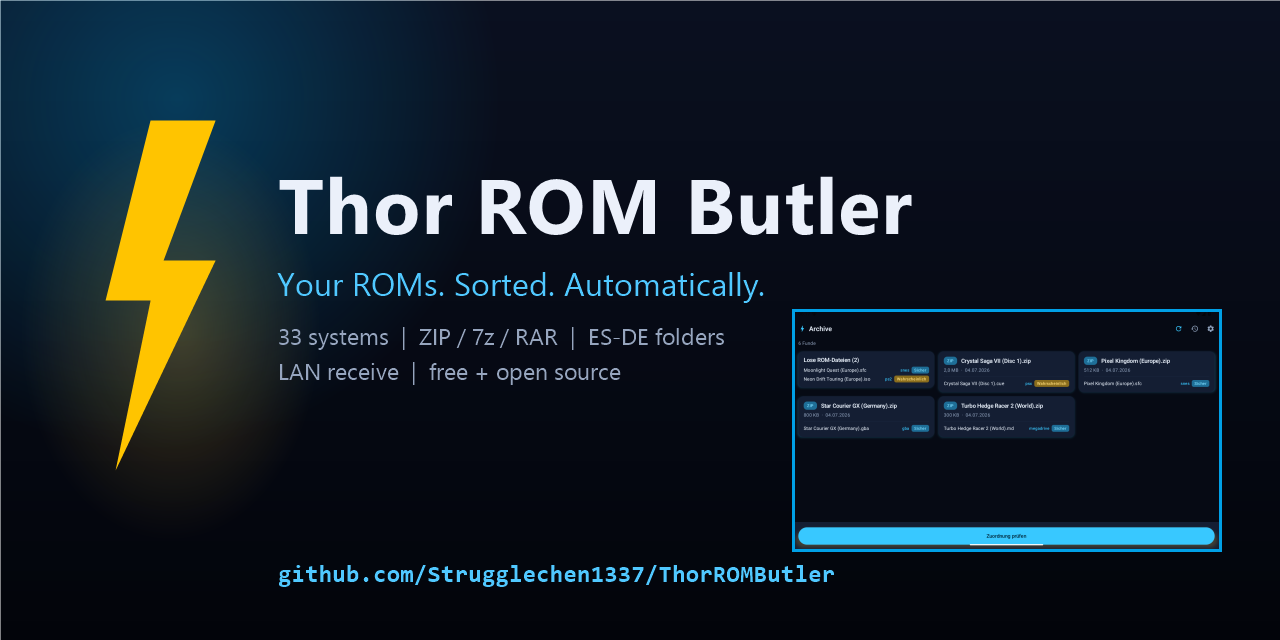
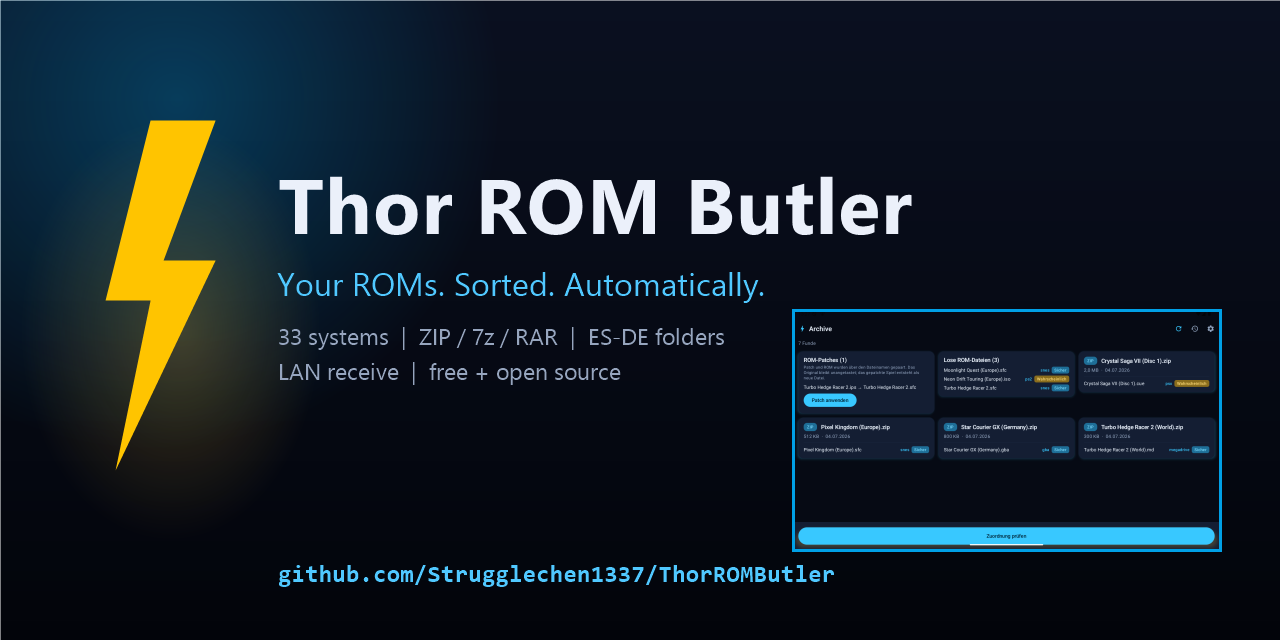
Screenshots auf v1.4.0-Stand + LAN-QR-Ansicht in der Galerie
- Neue Emulator-Screenshots (fiktive Spielnamen): Scan mit
  ROM-Patch-Karte, Zuordnung, LAN-Empfang-Sitzung mit QR-Code,
  Einstellungen mit Playlist-Schalter.
- Neue Dateinamen (01-04-Prefix) als Cache-Buster fuer GitHubs
  Bild-CDN; alte scan/assign/settings.png entfernt, setup.png bleibt.
- README-Galerie auf vier Spalten inkl. LAN-Empfang erweitert,
  HOWTO-Referenzen (DE+EN) aktualisiert.
- Social-Preview mit aktuellem Scan-Screenshot regeneriert.

Changed region(s): [[0.625, 0.5625, 0.9688, 0.7188], [0.9062, 0.5938, 0.9375, 0.625]]

diff --git a/docs/HOWTO.md b/docs/HOWTO.md
@@ -59,7 +59,7 @@ Die App durchsucht den Ordner und analysiert jeden Fund — bei Archiven
 **ohne sie zu entpacken**. Auf jeder Karte siehst du, welche ROMs erkannt
 wurden.
 
-<img src="screenshots/scan.png" alt="Scan" width="600">
+<img src="screenshots/01-scan.png" alt="Scan" width="600">
 
 ### Schritt 4: Zuordnung prüfen
 
@@ -76,7 +76,7 @@ Duplikate werden erkannt und übersprungen, außer du wählst „Ersetzen". Beim
 Ersetzen bleibt die vorhandene Datei gesichert, bis die neue vollständig
 geschrieben und geprüft wurde.
 
-<img src="screenshots/assign.png" alt="Zuordnung" width="600">
+<img src="screenshots/02-assign.png" alt="Zuordnung" width="600">
 
 ### Schritt 5: Einsortieren
 
@@ -132,7 +132,7 @@ anders überlegst.
 - **Updates**: Einstellungen → „Auf Updates prüfen", oder via
   [Obtainium](https://github.com/ImranR98/Obtainium).
 
-<img src="screenshots/settings.png" alt="Einstellungen" width="600">
+<img src="screenshots/04-settings.png" alt="Einstellungen" width="600">
 
 ---
 
@@ -190,7 +190,7 @@ send files from other apps via
 The app scans the folder and analyzes every find — archives are inspected
 **without extracting them**. Each card shows which ROMs were detected.
 
-<img src="screenshots/scan.png" alt="Scan" width="600">
+<img src="screenshots/01-scan.png" alt="Scan" width="600">
 
 ### Step 4: Review
 
@@ -206,7 +206,7 @@ Every ROM gets an honest confidence rating:
 detected and skipped unless you opt into replacing them. During replacement,
 the existing file stays backed up until the new copy is complete and verified.
 
-<img src="screenshots/assign.png" alt="Review" width="600">
+<img src="screenshots/02-assign.png" alt="Review" width="600">
 
 ### Step 5: Sort
 
@@ -260,4 +260,4 @@ your mind.
 - **Updates**: Settings → "Check for updates", or via
   [Obtainium](https://github.com/ImranR98/Obtainium).
 
-<img src="screenshots/settings.png" alt="Settings" width="600">
+<img src="screenshots/04-settings.png" alt="Settings" width="600">

diff --git a/README.md b/README.md
@@ -9,9 +9,9 @@
 
 ## Screenshots
 
-| Archive / Archive | Zuordnung / Review | Einstellungen / Settings |
-|-------------------|--------------------|--------------------------|
-| <img src="docs/screenshots/scan.png" alt="Thor ROM Butler archive scan screen" width="300"> | <img src="docs/screenshots/assign.png" alt="Thor ROM Butler review screen" width="300"> | <img src="docs/screenshots/settings.png" alt="Thor ROM Butler settings screen" width="300"> |
+| Archive & Patches / Archives & patches | Zuordnung / Review | LAN-Empfang / LAN receive | Einstellungen / Settings |
+|----------------------------------------|--------------------|---------------------------|--------------------------|
+| <img src="docs/screenshots/01-scan.png" alt="Thor ROM Butler scan screen with ROM patch card" width="240"> | <img src="docs/screenshots/02-assign.png" alt="Thor ROM Butler review screen" width="240"> | <img src="docs/screenshots/03-receive.png" alt="Thor ROM Butler LAN receive session with QR code" width="240"> | <img src="docs/screenshots/04-settings.png" alt="Thor ROM Butler settings screen" width="240"> |
 
 ## Deutsch
 